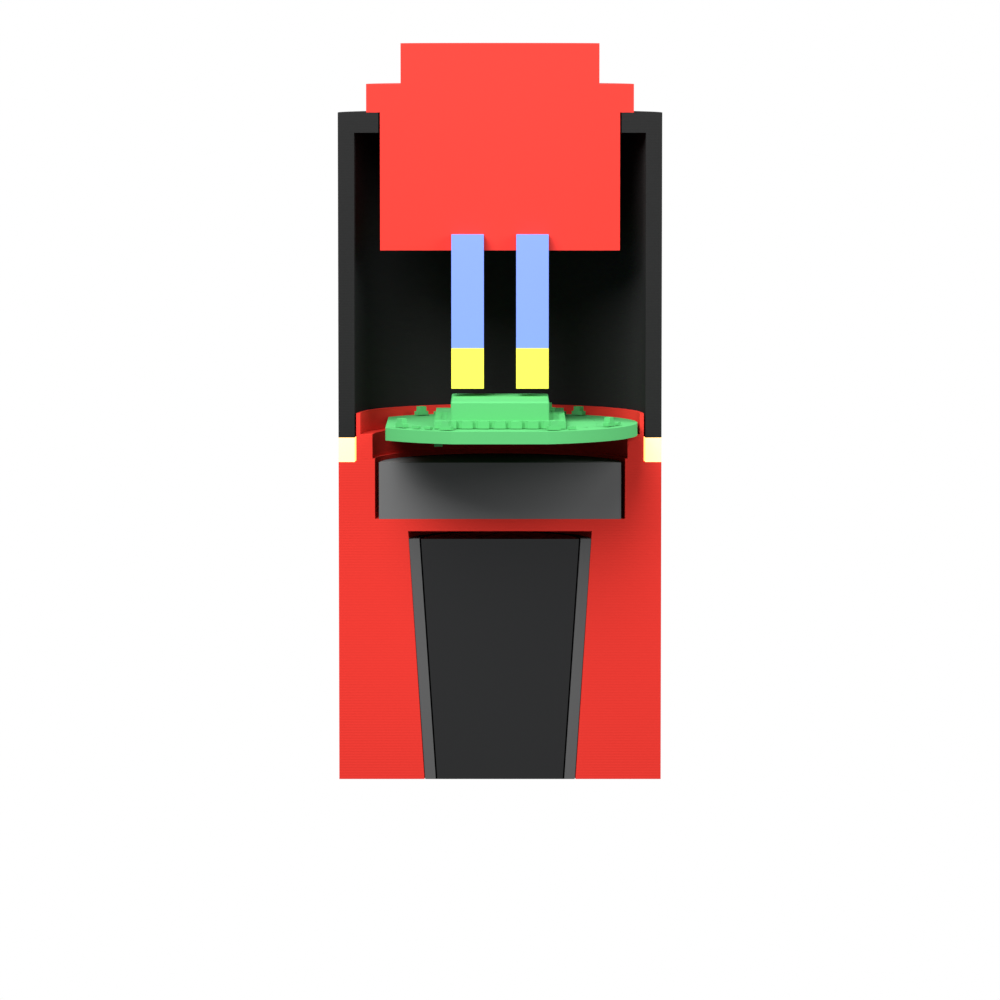
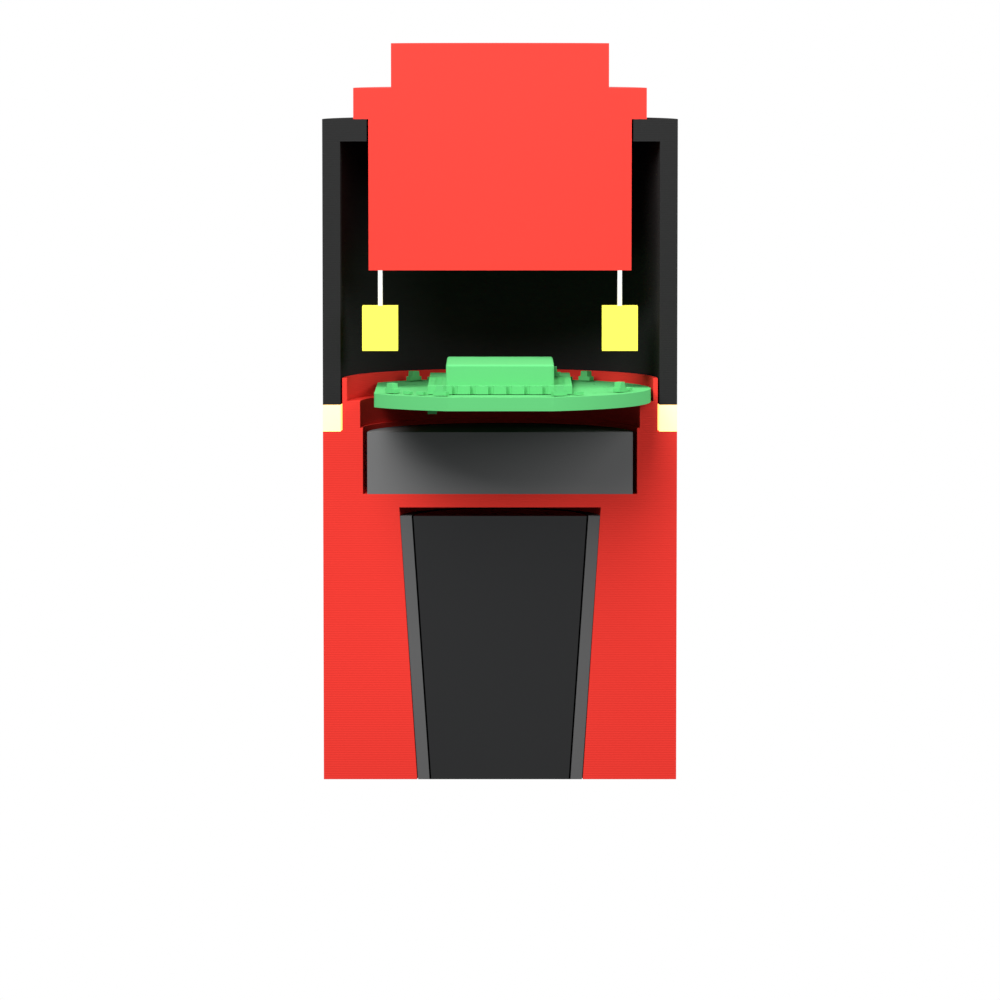
Knob: compact button with bent, soldered side tabs, 83 mm
The AliExpress product photos (YingLucky) show the compact button's
tabs leaving the housing sideways; in the 36 mm hood they are bent down
and the wires soldered on, so no receptacles are needed below. The knob
drops to 83 mm; renders updated.

Changed region(s): [[0.31, 0.031, 0.682, 0.775]]

diff --git a/hardware/freecad/knauf.py b/hardware/freecad/knauf.py
@@ -48,7 +48,9 @@ BUTTON = os.environ.get("KNAUF_BUTTON", "kompakt")
 # Datenblatt des Joy-IT "Mini Arcade Button" (Reichelt ARC BUTTON M ..), gleiche Bauart:
 # Gehaeuse Ø30 und 17 mm unter der Platte (Schalter innen), Rand Ø33 x 3,5, Kappe Ø24,5 x 5
 JOY_BODY_D, JOY_BODY_H, JOY_BEZEL_D, JOY_BEZEL_H, JOY_CAP_D, JOY_CAP_H = 30.0, 17.0, 33.0, 3.5, 24.5, 5.0
-JOY_TAB_LEN, JOY_TAB_X = 5.0, 4.0    # Flachsteckzungen unten (nicht im Datenblatt - am Teil nachmessen)
+# Die Fahnen kommen seitlich aus dem Gehaeuse (Fotos des Ali-Angebots, YingLucky) und wuerden die Haube
+# beruehren: nach unten umgebogen, Litze angeloetet. Laenge der gebogenen Fahne unter dem Gehaeuse geschaetzt.
+JOY_TAB_LEN, JOY_TAB_X = 4.0, JOY_BODY_D / 2 - 1.5
 SANWA_STEP = os.path.join(HERE, "fremd", "sanwa_obsf30.step")
 SANWA_BEZEL_H = 2.6      # Rand ueber der Platte (aus dem Modell gemessen)
 FASTON_OVER = 7.0        # Flachsteckhuelse steckt so weit auf der Zunge
@@ -130,7 +132,7 @@ def sanwa_button():
 
 
 def joyit_button():
-    """Aus dem Datenblatt: Gehaeuse mit eingebautem Schalter, Rand, Kappe; dazu zwei Zungen unten."""
+    """Aus dem Datenblatt: Gehaeuse mit eingebautem Schalter, Rand, Kappe; dazu die zwei umgebogenen Fahnen."""
     tabs = Part.makeCompound([Part.makeBox(0.5, 2.8, JOY_TAB_LEN, V(sx * JOY_TAB_X - 0.25, -1.4,
                                                                     -JOY_BODY_H - JOY_TAB_LEN)) for sx in (-1, 1)])
     housing = cyl(JOY_BODY_D / 2 - 0.2, JOY_BODY_H, -JOY_BODY_H).fuse(cyl(JOY_BEZEL_D / 2, JOY_BEZEL_H, 0))
@@ -143,10 +145,15 @@ tip = switch.BoundBox.ZMin                           # Ende der Flachsteckzungen
 # Mitte jeder Zunge aus einem Schnitt kurz ueber dem Zungenende
 tabs = [w.BoundBox for w in switch.slice(V(0, 0, 1), tip + 1.0)]
 fastons = []
-for t in tabs:
-    fastons.append(Part.makeBox(FASTON_W, FASTON_T, FASTON_LEN,
-                                V(t.Center.x - FASTON_W / 2, t.Center.y - FASTON_T / 2, tip + FASTON_OVER - FASTON_LEN)))
-below = FASTON_LEN - FASTON_OVER + WIRE_BEND         # so weit reicht der Anschluss unter die Zungen
+if BUTTON == "sanwa":
+    # Flachsteckhuelsen auf den Zungen, Kabelbogen darunter
+    for t in tabs:
+        fastons.append(Part.makeBox(FASTON_W, FASTON_T, FASTON_LEN, V(t.Center.x - FASTON_W / 2, t.Center.y - FASTON_T / 2,
+                                                                      tip + FASTON_OVER - FASTON_LEN)))
+    below = FASTON_LEN - FASTON_OVER + WIRE_BEND     # so weit reicht der Anschluss unter die Zungen
+else:
+    # angeloetete Litze: nur Loetstelle und Kabelbogen unter der Fahne
+    below = WIRE_BEND
 z_panel = z_parts_top + GAP + below - tip            # Oberkante Platte
 for s, name, rgb in ((switch, "Sanwa_Mikroschalter", (0.6, 0.6, 0.6)), (housing, "Sanwa_Rand", (0.75, 0.04, 0.03)),
                      (cap, "Sanwa_Kappe", (0.75, 0.04, 0.03))):
@@ -155,7 +162,10 @@ for s, name, rgb in ((switch, "Sanwa_Mikroschalter", (0.6, 0.6, 0.6)), (housing,
 for k, f in enumerate(fastons):
     f.translate(V(0, 0, z_panel))
     add("Flachsteckhuelse_%d" % (k + 1), f, (0.2, 0.3, 0.8))
-    bend = Part.makeBox(FASTON_W, FASTON_T, WIRE_BEND, V(f.BoundBox.XMin, f.BoundBox.YMin, f.BoundBox.ZMin - WIRE_BEND))
+# Kabelbogen unter der Huelse (Sanwa) bzw. Loetstelle mit Bogen unter der Fahnenspitze (kompakt)
+ends = [(f.BoundBox.Center, f.BoundBox.ZMin) for f in fastons] or [(t.Center, tip + z_panel) for t in tabs]
+for k, (c, z_end) in enumerate(ends):
+    bend = Part.makeBox(FASTON_W, FASTON_T, WIRE_BEND, V(c.x - FASTON_W / 2, c.y - FASTON_T / 2, z_end - WIRE_BEND))
     add("Kabelbogen_%d" % (k + 1), bend, (0.9, 0.9, 0.2))
 
 # ---- Haube: Rohr ueber dem Hals bis zur Platte, Loch fuer den Button
